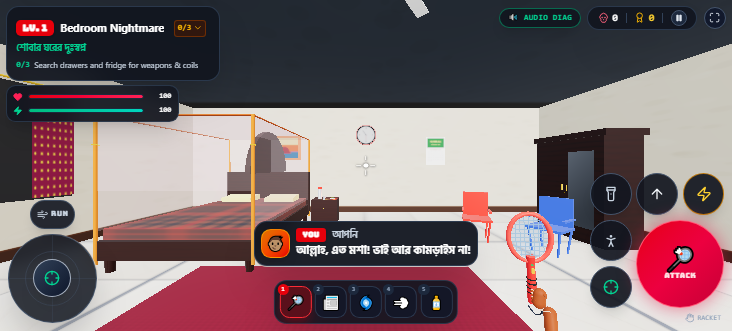
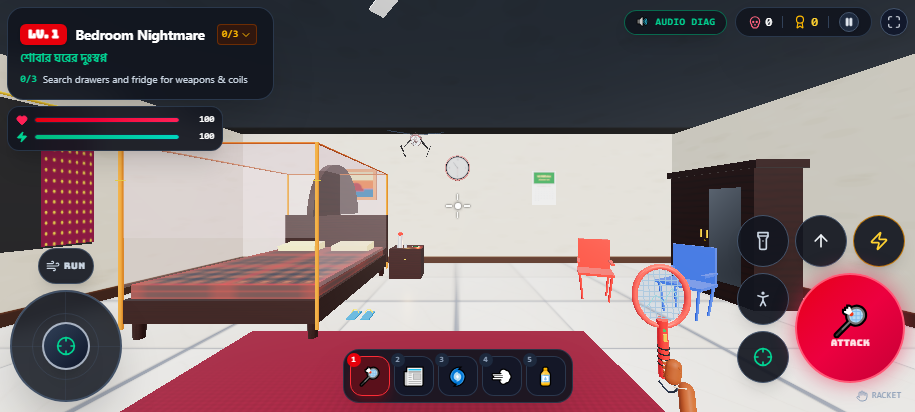
Verify Level 6 wave/boss encounter, 915x412 HUD and final build

diff --git a/docs/VERIFICATION.md b/docs/VERIFICATION.md
@@ -1,13 +1,13 @@
 # Verification log
 
-_Last run: 2026-11-17, after the mobile HUD, fullscreen/PWA, resize and render-batching pass._
+_Last run: 2026-11-18, final verification after the mobile HUD, fullscreen/PWA, resize and render-batching pass._
 
 ## Commands
 
 | Command | Result |
 |---|---|
 | `npm run lint` (`tsc --noEmit`) | Passed, no diagnostics |
-| `npm run build` (`vite build`) | Passed, 1,126.92 kB JS / 302.80 kB gzip, 79.21 kB CSS / 12.25 kB gzip |
+| `npm run build` (`vite build`) | Passed, 1,127.03 kB JS / 302.84 kB gzip, 79.38 kB CSS / 12.30 kB gzip |
 | `npm run dev` + live Playwright run | Passed on desktop and mobile viewports |
 | `vite preview` + live Playwright run | Passed; manifest, icons and service worker served from the production build |
 
@@ -41,6 +41,20 @@ slightly between runs.
 | 42 mixed enemies (stress) | 1,364 | 98.6k | 42 |
 | 3 bosses + 5 swarm | 452 | 63.3k | 8 |
 
+Level 6 ("The Final Night") was measured with its authored waves spawned through
+the game's own spawn function:
+
+| Level 6 encounter (1366 × 768) | Draw calls | Triangles | Enemies |
+|---|---|---|---|
+| Empty arena at level start | 122 | 27.7k | 0–1 |
+| Wave 1 + both wave 2 bosses | 844 | 141.2k | 19 |
+| Wave 1 + wave 2, mid-fight | 1,002 | 166.1k | 25 |
+| Same fight, natural spawns continuing | 1,100 | 181.4k | 27 |
+
+The 19-enemy frame contained 1 Dengue King, 1 Invisible Apex, 2 Midnight
+Stalkers, 4 giants, 3 stealth mosquitoes and 8 swarm mosquitoes; the player was
+at 100/100 health with the Dengue King boss bar active.
+
 Per-enemy mesh count after batching (was → now): normal/fast/swarm/stealth/armored
 28 → 11, giant 45 → 13, Midnight Stalker 97 → 41, Invisible Apex 100 → 54,
 Dengue King 128 → 57. Bosses were re-inspected close-up after the change; their
@@ -66,7 +80,7 @@ bottom of the screen, which is normal for a first-person arm.
 | 1920 × 1080 | 1920 × 1080 | 1536 × 864 (DPR 0.8) | Canvas fills the viewport; crosshair centre measured at 960 × 540 |
 | 1366 × 768 | 1366 × 767 | 1092 × 614 (DPR 0.8) | Canvas fills the viewport; crosshair at 683 × 384; no horizontal overflow |
 | 412 × 915 portrait | 412 × 915 | 330 × 732 (DPR 0.8) | Rotate-to-landscape overlay, menu still scrolls, no overflow |
-| 915 × 412 landscape | 915 × 413 | 732 × 330 (DPR 0.8) | Joystick 112 × 154 at bottom-left, weapon dock 230 × 54 at bottom-centre, action cluster 168 × 168 at bottom-right, no overlap |
+| 915 × 412 landscape | 915 × 412 (DPR 1) | 915 × 412 | Crosshair centre 458 × 206; joystick 112 × 154, dock 230 × 54, cluster 168 × 168, all inside the viewport with no mutual overlap |
 
 The canvas backing store is smaller than the CSS size because the renderer caps
 device pixel ratio (0.8 here) for performance; the canvas is still scaled to the
@@ -76,15 +90,33 @@ coalesced into one rAF, driven by `ResizeObserver` plus `resize`,
 size, camera aspect/projection, DPR, particle point scale and the mobile layout in
 one place.
 
-Notes on this environment: the browser page zoom is 0.8 on this origin, so
-`setViewportSize` was compensated (for example 732 × 331 → 915 × 413) to reach the
-requested CSS size. Viewport changes occasionally needed a different pixel value
-to take effect. Mobile layout was forced with `?mobile=1` because the desktop
-Chrome instance has no touch capability; `?mobile=0` forces desktop layout.
+Notes on this environment: the desktop browser page zoom is 0.8 on this origin, so
+desktop viewports were compensated (for example 732 × 331 → 915 × 413) to reach the
+requested CSS size; with mobile emulation enabled the requested viewport is the CSS
+viewport directly, which is how the exact 915 × 412 run above was taken. Viewport
+changes occasionally needed a different pixel value to take effect. Mobile layout
+was forced with `?mobile=1` because the desktop Chrome instance has no touch
+capability; `?mobile=0` forces desktop layout.
+
+Two capture quirks, both tooling rather than app behaviour: when the emulated
+viewport is larger than the physical window, the screenshot API pads the image to
+the CSS size with black, so the Level 6 screenshot was clipped to the rendered
+region (1093 × 614 for a 1366 × 768 CSS viewport). Under mobile emulation the
+automated pointer click did not dispatch a React event on the menu buttons even
+though the button was the topmost element at that point; a direct DOM click
+started the level, and ordinary mouse clicks work in the non-mobile runs. Both
+screenshots were still taken from the running game, not mocked up.
 
 ## Mobile HUD
 
 Verified in landscape at 915 × 412 against the running game:
+
+Measured layout (CSS pixels, viewport 915 × 412): mission/health block
+`[7, 7, 267, 144]`, joystick `[10, 248, 112, 154]`, weapon dock
+`[343, 349, 230, 54]`, action cluster `[737, 215, 168, 168]`. Every block is
+inside the viewport, no pair overlaps, the page reports no horizontal or vertical
+overflow, and the crosshair centre is `458 × 206` (true centre). The HUD exposes
+five weapon slots and six action buttons.
 
 - Mission panel collapses to one row plus a one-line objective preview; expanding
   it scrolls internally instead of pushing the HUD.
@@ -126,6 +158,9 @@ Verified in landscape at 915 × 412 against the running game:
 - All six levels build, load and render without errors.
 - Mobile landscape HUD layout, portrait rotate overlay, safe areas and the
   collapsible mission panel were measured in a running build.
+- Level 6 was played with its authored wave 1 and both wave 2 bosses (19 enemies,
+  including the Dengue King, Invisible Apex and two Midnight Stalkers) and rendered
+  without errors at 844 draw calls / 141.2k triangles.
 - Resize/DPR handling reproduces the correct canvas size at all four required
   viewports.
 - Static-scenery merging keeps the animated ceiling fan and the Level 4 giant
@@ -140,8 +175,13 @@ Verified in landscape at 915 × 412 against the running game:
 - **Frame rate on real hardware.** This browser only exposes Microsoft Basic
   Render Driver (software GL) and throttles background tabs, so the reported
   `frameMs`/`worstFrameMs` values are meaningless and the 60 FPS desktop target,
-  the 30–60 FPS mid-range Android target and thermal behaviour are untested. Only
-  draw calls, triangle counts and enemy counts are trustworthy.
+  the 30–60 FPS mid-range Android target and thermal behaviour are untested. A
+  representative diagnostic reading was `fps: 2307.7`, `frameMs: 80.56`,
+  `worstFrameMs: 100`; the FPS value is clearly not a real measurement. Only draw
+  calls, triangle counts and enemy counts are trustworthy.
+- **Natural wave pacing.** Agent tabs are background-throttled, so Level 6's waves
+  were spawned through the game's own spawn function instead of waiting for the
+  timed wave loop. The enemy types, counts and models are the authored ones.
 - **Touch feel on a real phone.** HUD geometry was measured with the touch layout
   forced on, but no Android/iOS device was available, so thumb reach, multi-touch
   under real fingers and mobile Chrome's own gesture handling are unconfirmed.

diff --git a/docs/screenshots/README.md b/docs/screenshots/README.md
@@ -14,6 +14,7 @@ check for layout work:
 | `boss-wave-1920x1080.png` | 1920 × 1080 | Midnight Stalker, Dengue King and Invisible Apex rendered together after mesh batching |
 | `mobile-landscape-915x412.png` | 915 × 412 (touch) | Collapsed mission panel, separate health/energy bars, joystick, RUN, all five weapon slots, 3 × 3 action cluster |
 | `mobile-portrait-412x915.png` | 412 × 915 (touch) | Rotate-to-landscape overlay |
+| `level6-wave-bosses.png` | 1366 × 768 CSS, captured at 1093 × 614 device px | Level 6 wave 1 plus the wave 2 bosses: 19 enemies, boss health bar, HUD intact |
 
 | File | Scene | What to look for |
 |---|---|---|
@@ -29,6 +30,15 @@ Notes:
 
 - The screenshots include the HUD and the mission/objective panel because those
   are part of the shipped view.
+- The newest captures were taken at device pixel scale, so a 1366 × 768 CSS
+  viewport is saved as 1093 × 614 pixels. The browser's screenshot API pads the
+  image to the CSS size when the emulated viewport is larger than the physical
+  window; the captures here were clipped to the rendered region instead, so no
+  black bars are app layout.
+- `level6-wave-bosses.png` uses the level's authored wave lists through the same
+  spawn function the game uses. Natural spawning is roughly 20× slower in this
+  environment because agent tabs are background-throttled, so the wave was
+  spawned directly instead of waiting several minutes.
 - Enemy positions and the power-cut phase are time-dependent; a screenshot taken
   a second earlier or later can look different.
 - Level 2's power-cut state is not shown here: at the throttled frame rate in this
